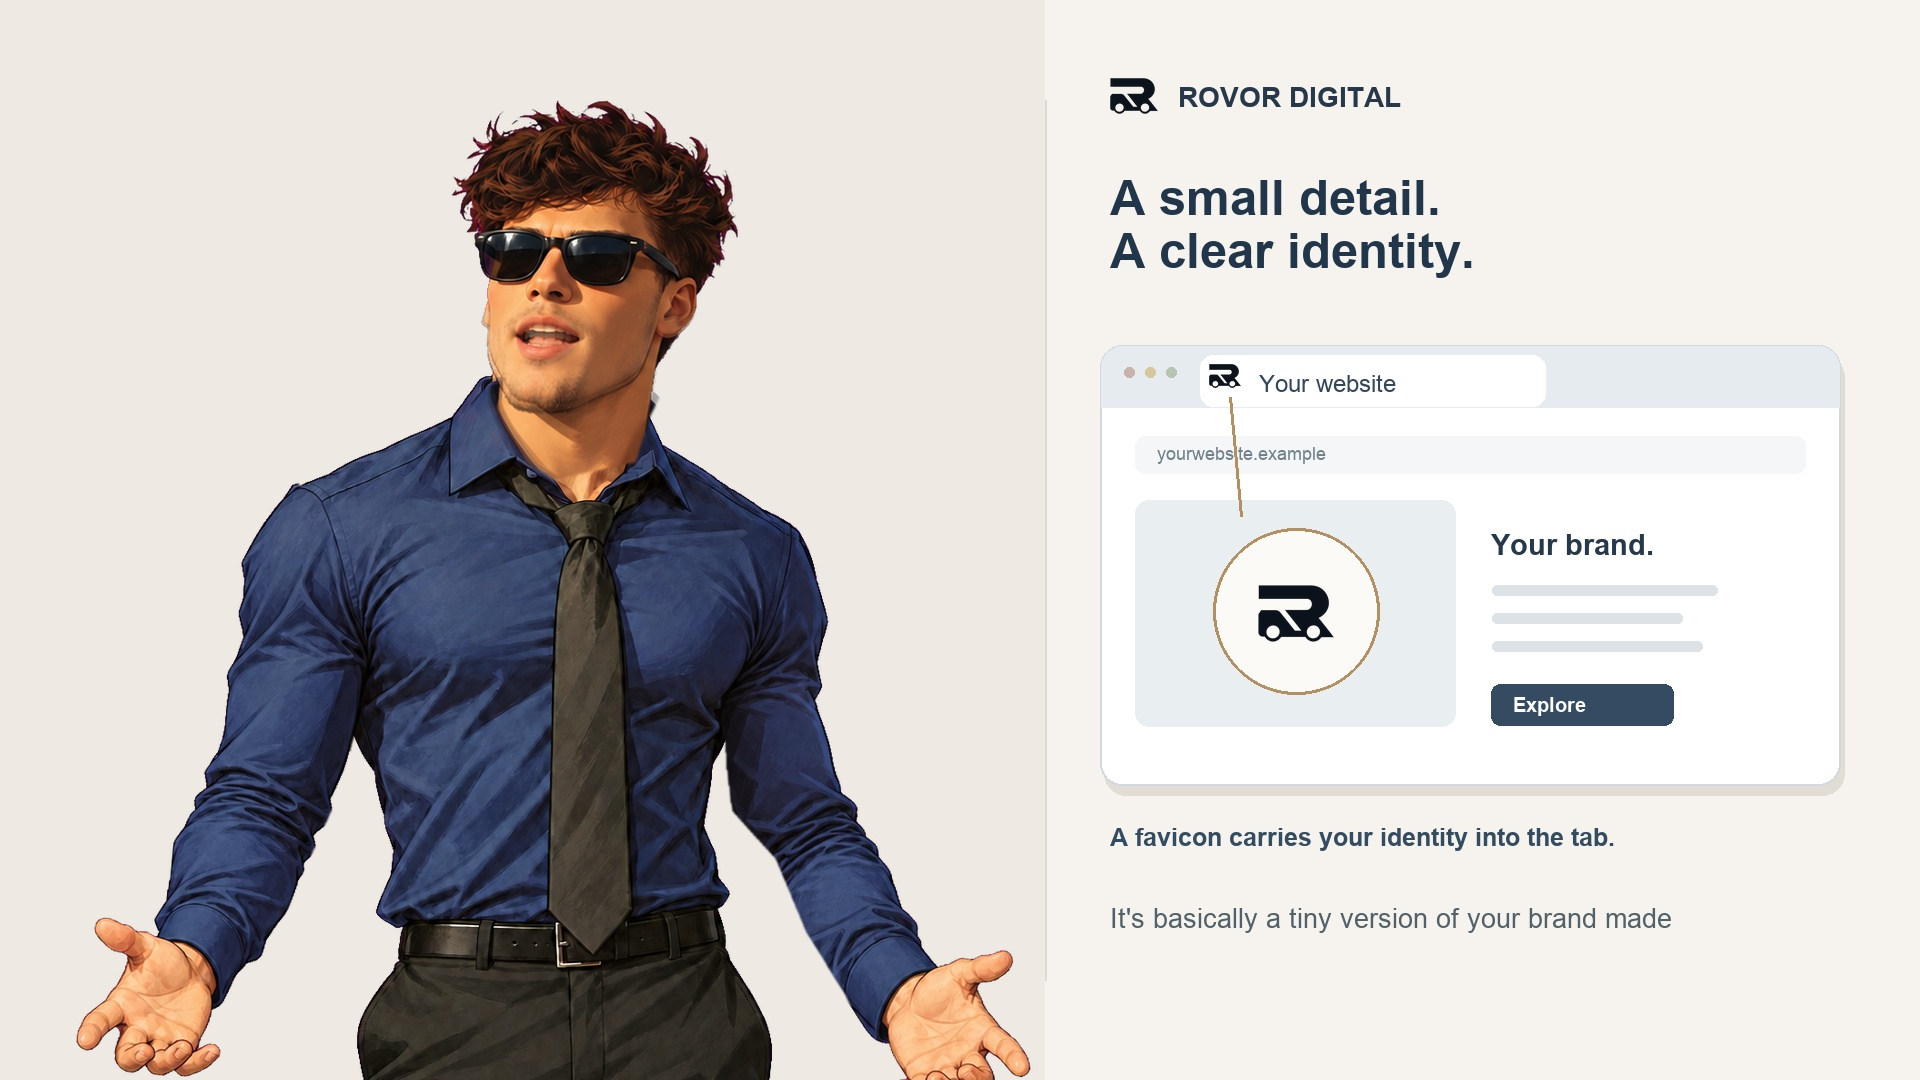
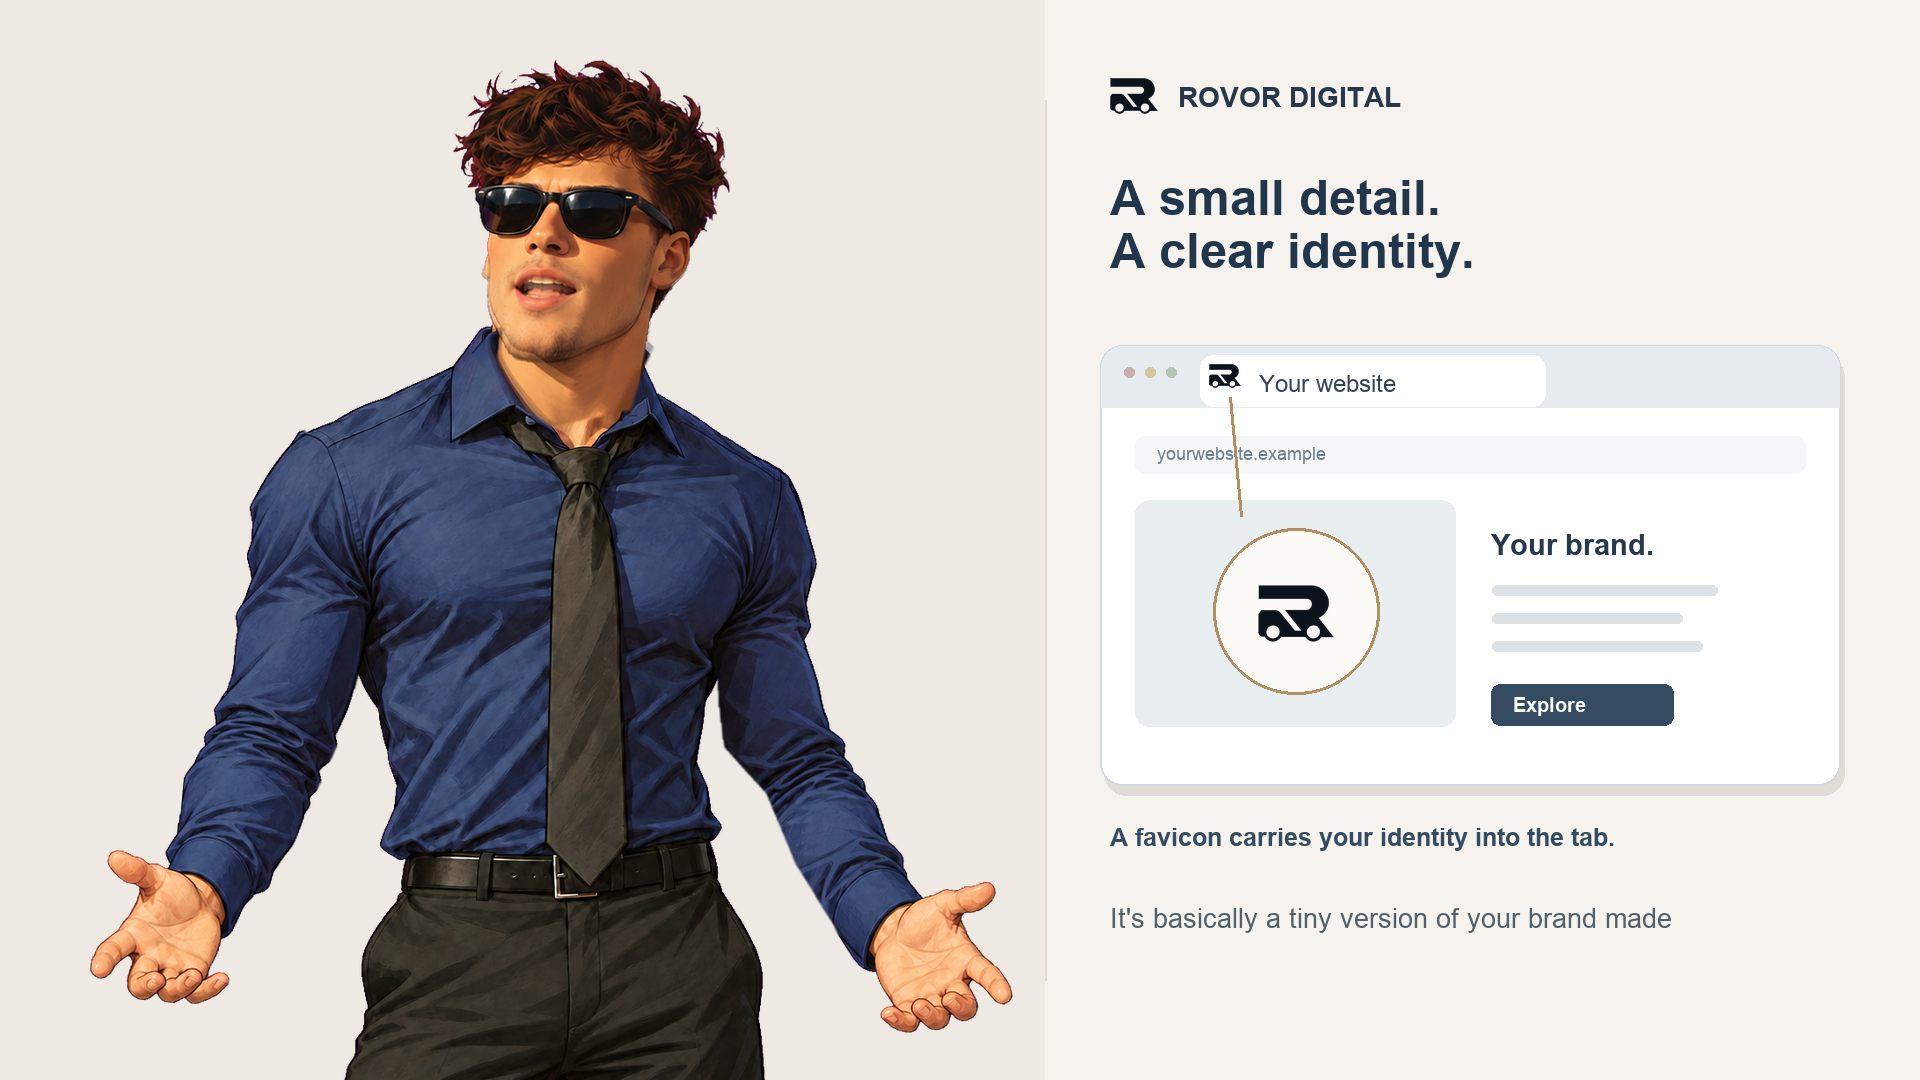
Keep complete hand gestures in frame and record visual validation

Changed region(s): [[0.0312, 0.0611, 0.5625, 1.0]]

diff --git a/evan-engine/check_painted_framing.py b/evan-engine/check_painted_framing.py
@@ -1,0 +1,49 @@
+"""Sample source hand geometry at every frame; complements visual inspection."""
+import argparse
+import json
+import math
+from pathlib import Path
+import numpy as np
+from painted_character import PaintedCharacter, skin_vertices, sample_track
+from render_painted_scene import control_state
+
+
+def check(scene):
+    character = PaintedCharacter()
+    hands = {}
+    for name, arm in character.arms.items():
+        a = arm.image.astype('float32')
+        yy = np.indices(a.shape[:2])[0]
+        y, x = np.where((a[:, :, 3] > 220) & (a[:, :, 0] > a[:, :, 2] * 1.35) & (a[:, :, 0] > a[:, :, 1] * 1.1) & (yy > 880))
+        points = np.c_[x, y].astype('float32')
+        hands[name] = points[::max(1, len(points) // 1000)]
+    low = np.array([1e6, 1e6])
+    high = -low
+    count = math.ceil(scene['duration'] * 24)
+    for frame in range(count):
+        t = frame / 24
+        state = control_state(t, scene)
+        scale = sample_track(t, scene.get('cameraScale', [(0, .89)]))
+        origin = np.array([sample_track(t, scene.get('rootX', [(0, -100)])), sample_track(t, scene.get('rootY', [(0, 85)]))])
+        for name, points in hands.items():
+            xy = skin_vertices(points, character.arms[name].geometry, state[name])
+            xy[:, 0] += 220
+            xy = xy * scale + origin
+            low = np.minimum(low, xy.min(axis=0))
+            high = np.maximum(high, xy.max(axis=0))
+    return {'sampled_frames': count, 'hand_min_xy': low.tolist(), 'hand_max_xy': high.tolist(),
+            'frame_size': [1920, 1080], 'inside_frame': bool((low >= 0).all() and (high < [1920, 1080]).all())}
+
+
+if __name__ == '__main__':
+    parser = argparse.ArgumentParser(description=__doc__)
+    parser.add_argument('scene', type=Path)
+    parser.add_argument('--output', type=Path)
+    args = parser.parse_args()
+    result = check(json.loads(args.scene.read_text()))
+    text = json.dumps(result, indent=2)
+    if args.output:
+        args.output.write_text(text + '\n')
+    print(text)
+    if not result['inside_frame']:
+        raise SystemExit(1)

diff --git a/evan-engine/test_moho_exposure.py b/evan-engine/test_moho_exposure.py
@@ -16,9 +16,9 @@ class MohoExposureTests(unittest.TestCase):
     def test_gap(self):
         self.assertEqual(exposure([{"start":.1,"end":.2,"value":"D"}],20,.35),
                          [(1,"rest"),(3,"AI"),(5,"rest")])
-    def test_merged_similar_shapes(self):
+    def test_rounded_vowels_remain_distinct(self):
         x=[{"start":0,"end":.05,"value":"E"},{"start":.05,"end":.1,"value":"F"}]
-        self.assertEqual(exposure(x,60,.1),[(1,"O"),(7,"rest")])
+        self.assertEqual(exposure(x,60,.1),[(1,"O"),(4,"U"),(7,"rest")])
     def test_overlap_rejected(self):
         with self.assertRaises(ValueError):
             exposure([{"start":0,"end":.3,"value":"A"},

diff --git a/PAINTED-EVAN-REVIEW.md b/PAINTED-EVAN-REVIEW.md
@@ -14,7 +14,7 @@ The user selected the **first painted visual-development board** derived only fr
 
 ## Review evidence and current verdict
 
-The full shot has 356 rendered frames. Rendering took 170.25 seconds on this local CPU workflow, about 2.1 fps. This is a workload measurement, not a controlled hardware benchmark or a finding that the Mac is inadequate. Frames have been inspected at 1920×1080 and facial transitions at native 418-pixel source resolution. A slow close-up is supplied for human playback review. No human perceptual approval is claimed.
+The full shot has 356 rendered frames. A serial pass took 170.25 seconds on this local CPU workflow, about 2.1 fps. The final camera revision rendered in two independent frame ranges taking 88.14 and 87.16 seconds. A complete sampled hand-geometry sweep across all 356 frames verified that both hands remain in the picture; sampled hand bounds are approximately x=43–1084 and y=811–1041. This is a workload measurement, not a controlled hardware benchmark or a finding that the Mac is inadequate. Frames have been inspected at 1920×1080 and facial transitions at native 418-pixel source resolution. A slow close-up is supplied for human playback review. No human perceptual approval is claimed.
 
 The painted face preserves natural lip volume, teeth/tongue shading, stubble and cheek response substantially better than the rejected study. Closed-to-open transitions now have one corresponding lip contour. The separated upper-face drawing remains stable instead of changing hair/glasses on every phoneme. Elbow and wrist motion is visible while shoulders overlap the reconstructed torso.
 
@@ -50,8 +50,11 @@ The local tools config can set `painted_python` to the environment's Python and 
 
 ## Validation
 
+- All 40 tests pass with the optional painted dependencies installed. The inherited O/U exporter test was corrected to preserve distinct rounded sounds.
 - New geometry checks cover zero-pose identity, hierarchy pivots and bone lengths, all 81 facial pose pairs at five interpolation fractions without triangle inversions, stable upper-face pixels, white-teeth alpha preservation and brief MBP closures.
 - Backend-routing tests preserve the existing renderer and select the painted worker only explicitly.
 - A separate 1.25-second input passed the complete existing MP3 pipeline, including Whisper, Rhubarb, rendering and encoding. It also exercised the generic non-favicon card.
 - The PSD was saved, reopened, its 12 layers counted and its composite regenerated.
+- The corrected camera framing was checked across all 356 sampled frame poses; both hands remain inside the image. The final 14.8-second H.264/AAC movie was decoded without errors. A 9.6-second silent quarter-speed native-resolution facial excerpt is available for human review.
+- The standard system Python also passes the 40-test suite with nine optional artwork tests skipped, preserving the dependency-light default path.
 - The original V3/V4 main checkout, approved release symlink and updater remain unchanged. No production merge or deployment is authorized.

diff --git a/PAINTED-EVAN-CHECKPOINT.md b/PAINTED-EVAN-CHECKPOINT.md
@@ -4,7 +4,7 @@ User selected design 1 (painted) and explicitly authorized autonomous continuing
 
 Active checkout is this directory (`work/engine`), branch `development/evan-painted-rig`. The earlier rejected geometric-mouth study is NOT the chosen direction. Read PAINTED-EVAN-REVIEW.md for the actual current status and reproduction commands.
 
-Current work: generated master/setup pose, torso hidden-surface plate, corrected nine-face atlas; registered painted head/cheek/jaw/lip mesh; independent continuous shoulder/elbow/wrist controls; full 14.8-second 1080p authored favicon lesson rendered with existing narration. Layered PSD exported and reopened (12 pixel layers). animate_evan.py has an explicit --character painted path; production default stays calibrated. Original drawings, generated plates and exact prompts are preserved in evan-character/painted-v1/source. Rig builder is reproducible. New geometry/backend tests pass in the full dependency environment.
+Current work: generated master/setup pose, torso hidden-surface plate, corrected nine-face atlas; registered painted head/cheek/jaw/lip mesh; independent continuous shoulder/elbow/wrist controls; full 14.8-second 1080p authored favicon lesson rendered with existing narration. Layered PSD exported and reopened (12 pixel layers). animate_evan.py has an explicit --character painted path; production default stays calibrated. Original drawings, generated plates and exact prompts are preserved in evan-character/painted-v1/source. Rig builder is reproducible. All 40 tests pass in the full dependency environment. Final framing was revised to keep both hands visible; the 356-frame geometry sweep confirms no hand clipping.
 
 Local environment: bundled Python at /Users/amarhavic/.cache/codex-runtimes/codex-primary-runtime/dependencies/python/bin/python3, dependencies at ../painted/deps; set PYTHONPATH to that absolute directory when working from this checkout. Local tools config is ../painted/tools.json. Audio/cues originally live in the sibling previous chat's work directory; see review-scene fixture for timings. Render reports and frames are ../painted/. Deliverables are ../../outputs/evan-painted-animation. Do not commit credentials/configs, audio/video or transient caches.
 
